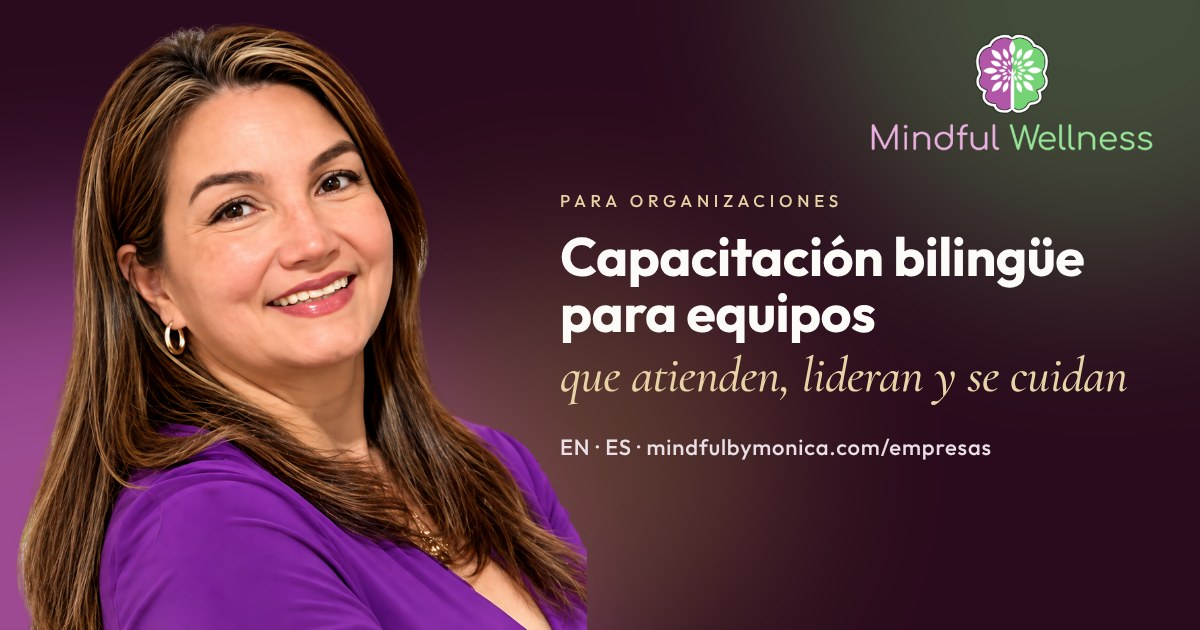
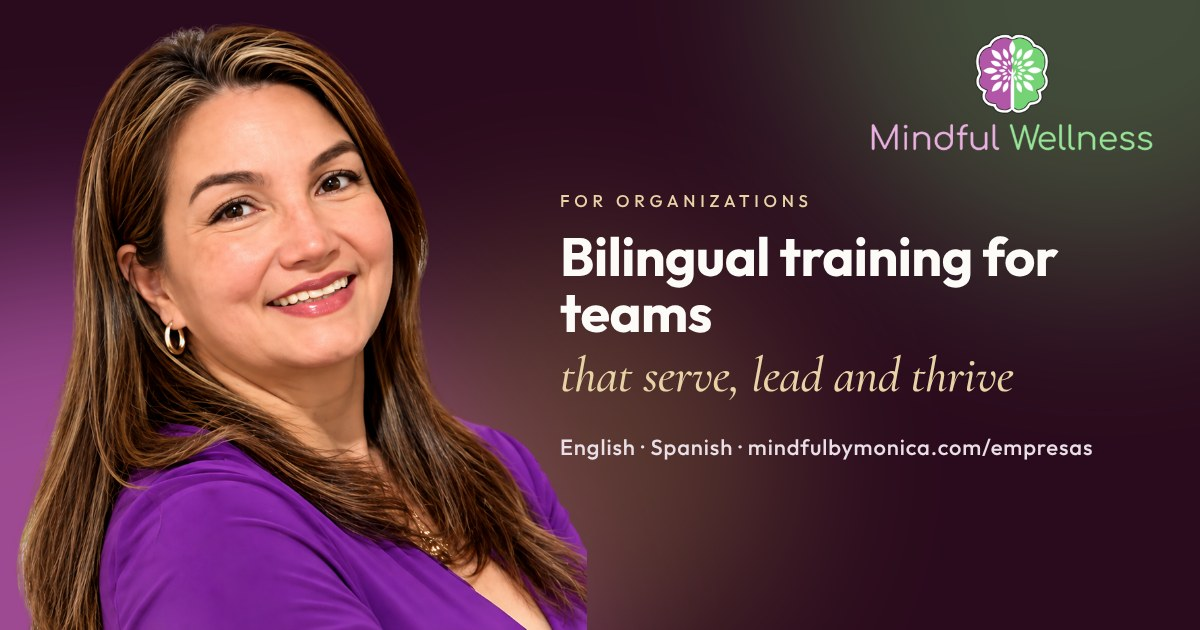
Corporativo en inglés: vistas previas, idioma por defecto de /empresas y WhatsApp
Claude-Session: https://claude.ai/code/session_01Cgv7VACzjbbE3Hbukr5a7m

diff --git a/empresas/index.html b/empresas/index.html
@@ -1,16 +1,16 @@
 <!doctype html>
-<html lang="es" data-lang="es">
+<html lang="en" data-lang="en">
 <head>
 <meta charset="utf-8">
 <meta name="viewport" content="width=device-width, initial-scale=1">
-<title>Capacitación bilingüe para organizaciones · Mindful Wellness</title>
-<meta name="description" content="Programas de capacitación, liderazgo y bienestar en inglés y español para equipos de salud, servicios comunitarios, hospitalidad y atención al cliente. NJ, NY y virtual.">
-<meta property="og:title" content="Capacitación bilingüe para organizaciones · Mindful Wellness">
-<meta property="og:description" content="Programas en español e inglés que fortalecen el servicio, el liderazgo y el bienestar de tu equipo.">
+<title>Bilingual training for organizations · Mindful Wellness</title>
+<meta name="description" content="Bilingual (English/Spanish) training, leadership and workforce well-being programs for health care, community services, hospitality and customer service teams. On-site in NJ and NY, virtual nationwide.">
+<meta property="og:title" content="Bilingual training for organizations · Mindful Wellness">
+<meta property="og:description" content="English and Spanish programs that strengthen service, leadership and well-being on your team.">
 <meta property="og:image" content="https://www.mindfulbymonica.com/img/og-empresas.jpg">
 <meta property="og:image:width" content="1200">
 <meta property="og:image:height" content="630">
-<meta property="og:image:alt" content="Mónica Villalba, Mindful Wellness">
+<meta property="og:image:alt" content="Mónica Villalba, Mindful Wellness &amp; Coaching">
 <meta name="twitter:card" content="summary_large_image">
 <meta name="twitter:image" content="https://www.mindfulbymonica.com/img/og-empresas.jpg">
 <meta property="og:url" content="https://www.mindfulbymonica.com/empresas/">
@@ -681,7 +681,7 @@ footer a:hover{color:var(--gold2)}
   </div>
 </footer>
 
-<a class="wa-float" href="https://wa.me/12016799969?text=Hola%20M%C3%B3nica%2C%20escribo%20de%20parte%20de%20una%20organizaci%C3%B3n%20y%20me%20interesa%20una%20propuesta." target="_blank" rel="noopener">WhatsApp</a>
+<a class="wa-float es" href="https://wa.me/12016799969?text=Hola%20M%C3%B3nica%2C%20escribo%20de%20parte%20de%20una%20organizaci%C3%B3n%20y%20me%20interesa%20una%20propuesta." target="_blank" rel="noopener">WhatsApp</a><a class="wa-float en" href="https://wa.me/12016799969?text=Hi%20M%C3%B3nica%2C%20I%27m%20reaching%20out%20on%20behalf%20of%20an%20organization%20and%20I%27d%20like%20a%20proposal." target="_blank" rel="noopener">WhatsApp</a>
 
 <script>
 (function(){
@@ -697,7 +697,7 @@ footer a:hover{color:var(--gold2)}
   }
   var saved=null; try{saved=localStorage.getItem('mw-lang');}catch(e){}
   var q=new URLSearchParams(location.search).get('lang');
-  set(q==='en'||q==='es'?q:(saved==='en'?'en':'es'));
+  set(q==='en'||q==='es'?q:(saved==='es'?'es':'en'));
   btns.forEach(function(b){b.addEventListener('click',function(){set(b.dataset.set);});});
 
   var burger=document.querySelector('.burger'), menu=document.getElementById('menu');

diff --git a/index.html b/index.html
@@ -5,12 +5,12 @@
 <meta name="viewport" content="width=device-width, initial-scale=1">
 <title>Mindful Wellness · Capacitación bilingüe para organizaciones y coaching personal</title>
 <meta name="description" content="Capacitación bilingüe para organizaciones de salud, servicios comunitarios, hospitalidad y atención al cliente, y coaching para personas y familias. Español e inglés, virtual o presencial. Wallington, NJ.">
-<meta property="og:title" content="Mindful Wellness · Capacitación bilingüe y coaching">
-<meta property="og:description" content="Capacitación bilingüe para organizaciones y coaching para personas y familias.">
+<meta property="og:title" content="Mindful Wellness · Bilingual training &amp; coaching">
+<meta property="og:description" content="Bilingual (English/Spanish) training for organizations and coaching for individuals and families.">
 <meta property="og:image" content="https://www.mindfulbymonica.com/img/og-mindful-wellness.jpg">
 <meta property="og:image:width" content="1200">
 <meta property="og:image:height" content="630">
-<meta property="og:image:alt" content="Mónica Villalba, Mindful Wellness">
+<meta property="og:image:alt" content="Mónica Villalba, Mindful Wellness &amp; Coaching">
 <meta name="twitter:card" content="summary_large_image">
 <meta name="twitter:image" content="https://www.mindfulbymonica.com/img/og-mindful-wellness.jpg">
 <meta property="og:type" content="website">
